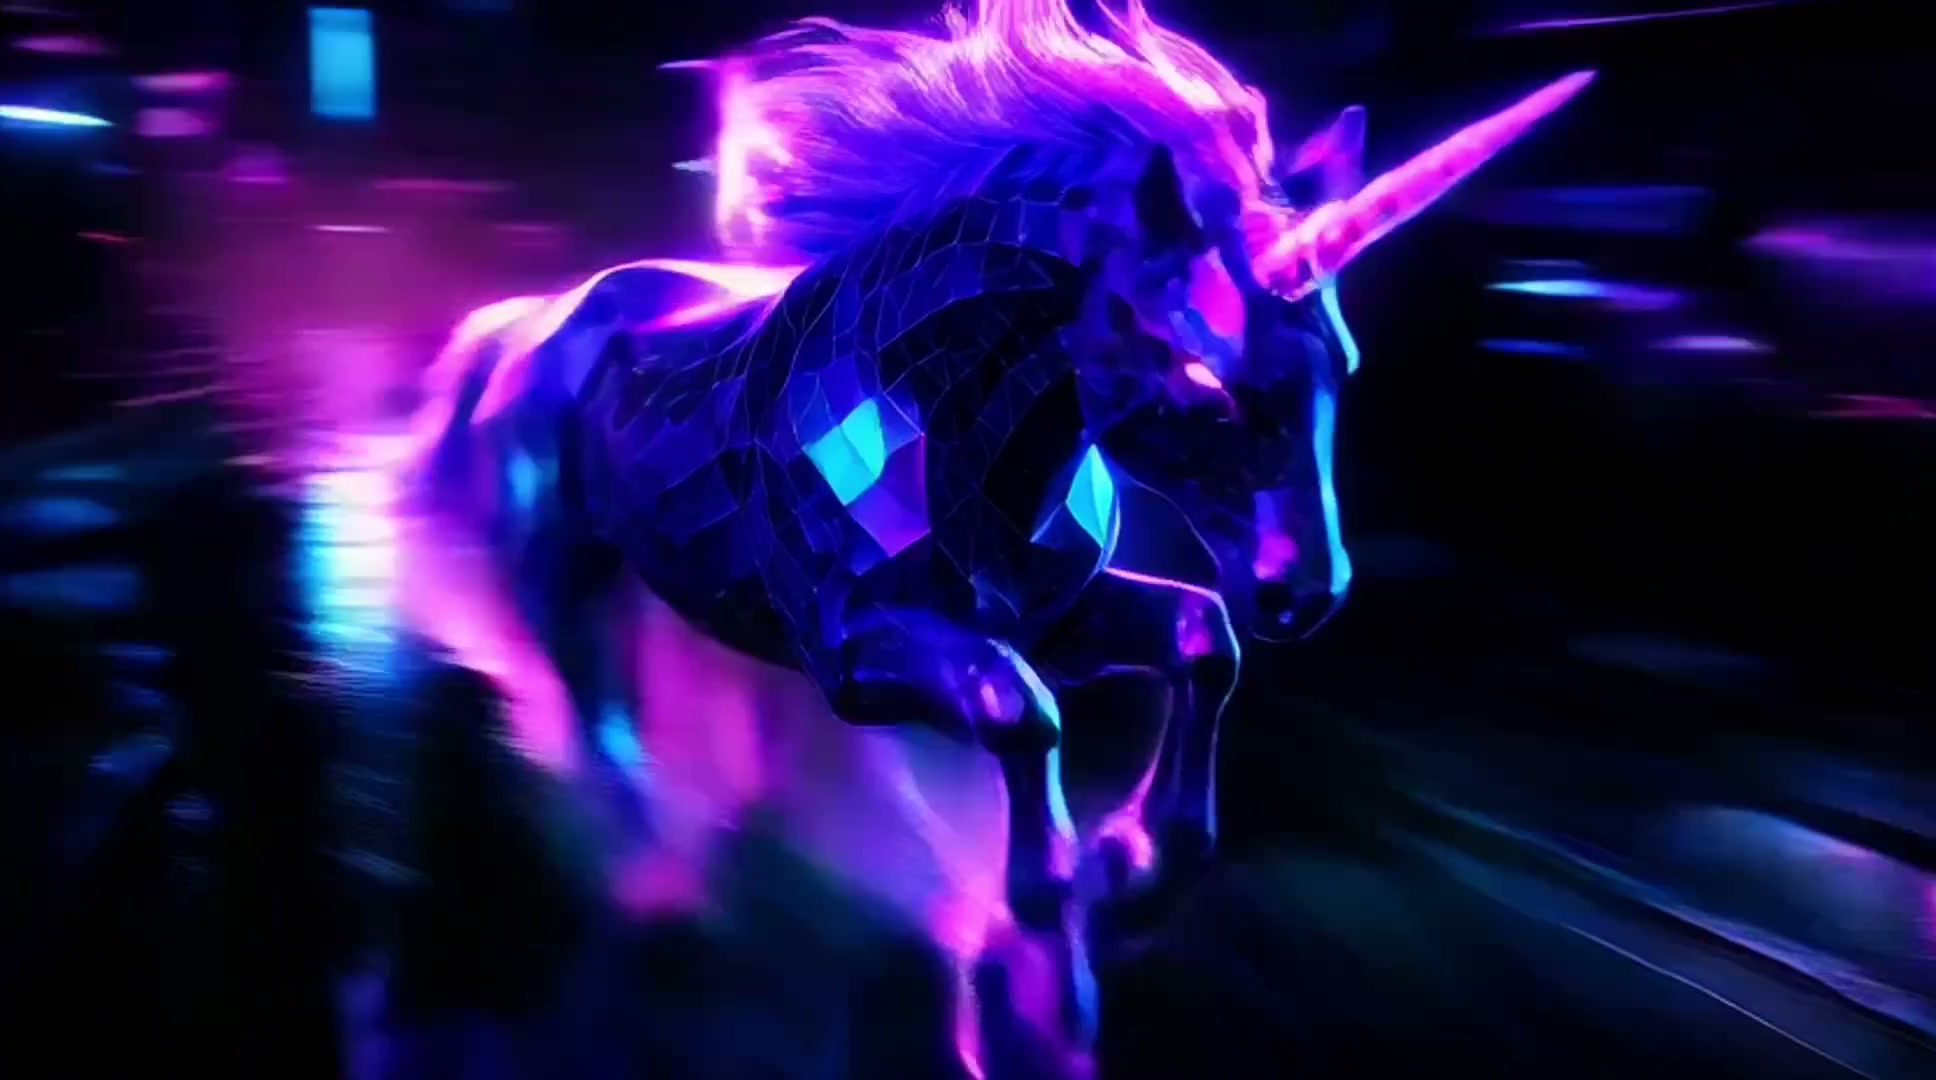
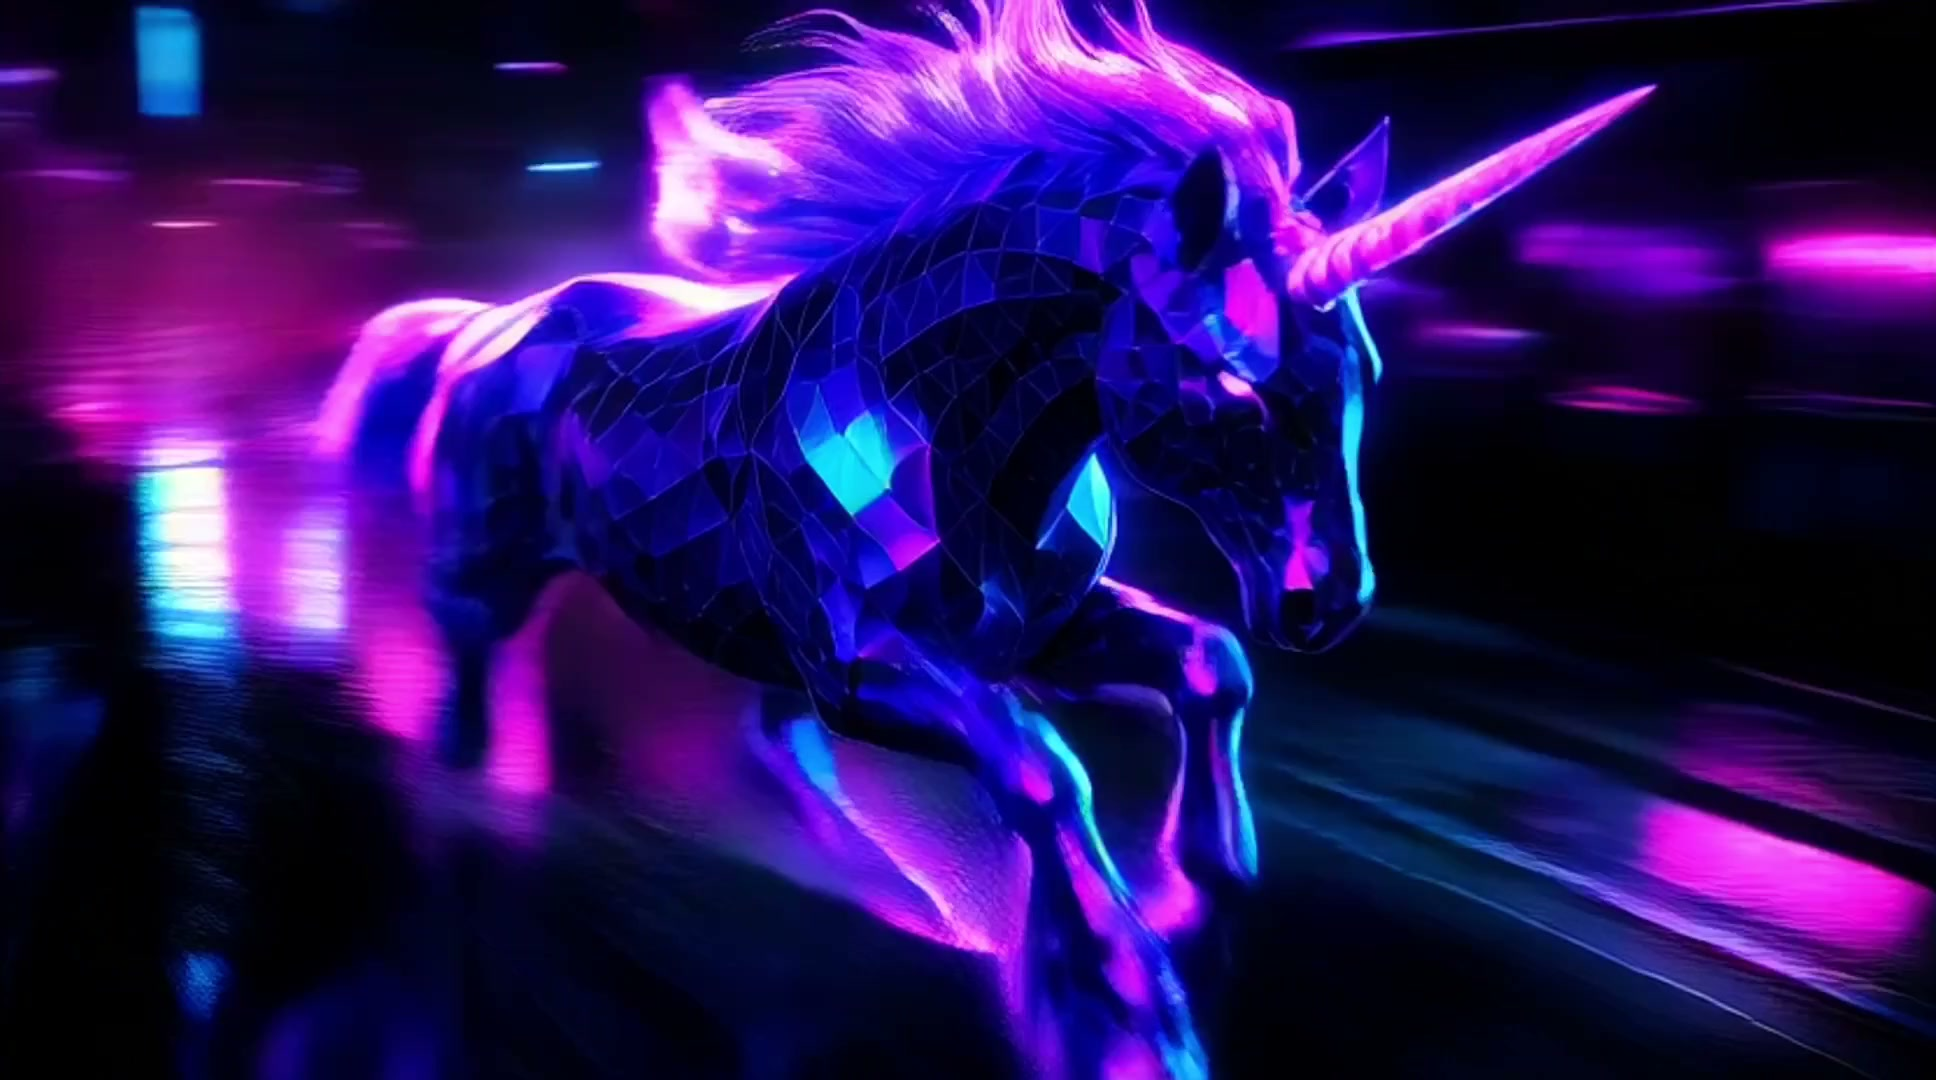
Update video assets in the Hero component and adjust video source URLs for improved quality. Replace outdated versions with new files for better performance and visual fidelity.

diff --git a/web/src/components/sections/Hero.tsx b/web/src/components/sections/Hero.tsx
@@ -33,11 +33,11 @@ export function Hero() {
             disablePictureInPicture
           >
             <source
-              src="/assets/hero-intro-transed-test.mov?v=3"
+              src="/assets/hero-intro-transed-test.mov?v=5"
               type='video/quicktime; codecs="hvc1"'
             />
             <source
-              src="/assets/hero-intro-transed-test.webm?v=3"
+              src="/assets/hero-intro-transed-test.webm?v=5"
               type="video/webm"
             />
           </video>